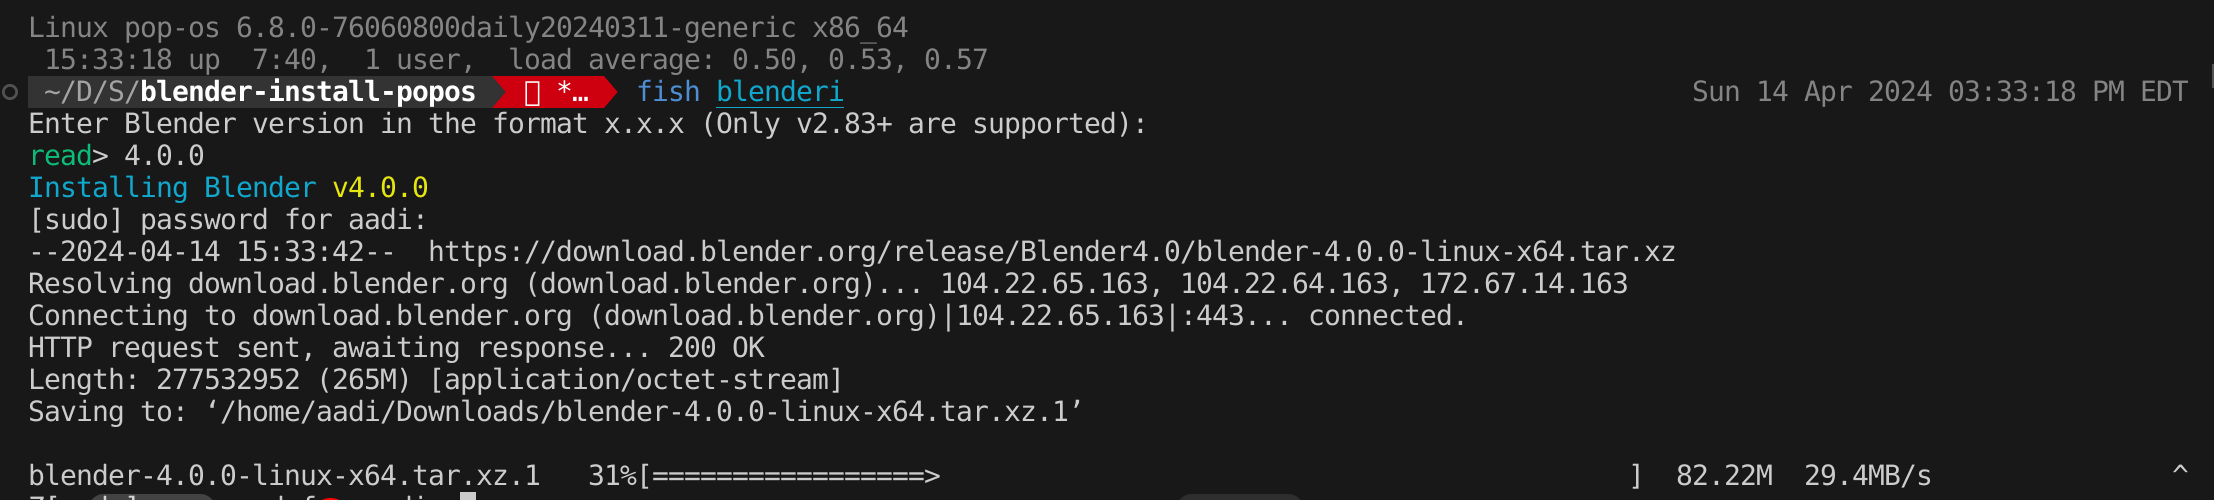
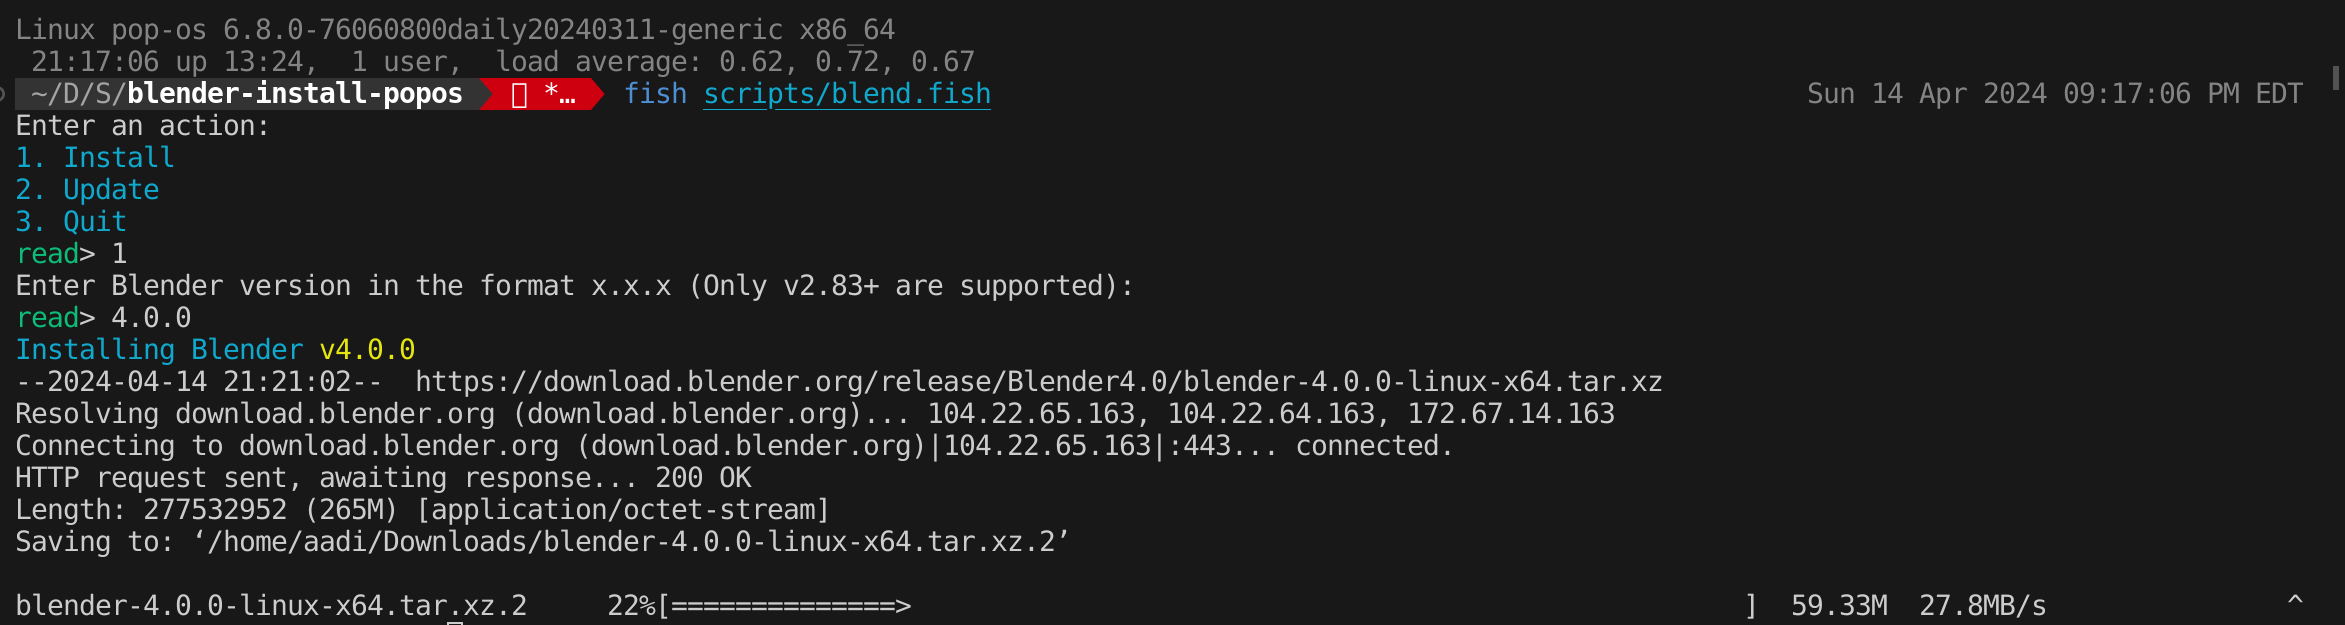
add blend.fish and update readme

diff --git a/README.md b/README.md
@@ -2,11 +2,7 @@
 
 This repo allows installing/updating Blender v2.83+ in PopOS. It uses the fish shell for both of those actions. It was created as the latest versions of Blender take a long time to appear in the official repo. Doesn't work with Blender versions < 2.83.x due to versioning differences.
 
-This repo includes two fish scripts:
-1. blenderi : For installing Blender
-2. blenderu : For updating Blender
-
-## Steps in blenderi
+## Install actions
 1. Download specified version tarball to ~/Downloads
 2. Extract tarball to /opt/Blender
 3. Delete tarball
@@ -14,7 +10,7 @@ This repo includes two fish scripts:
 5. Update icon caches with Blender icons
 6. Restart Gnome shell to make Blender appear in the launcher (Works with X11. If you're using Wayland, you'll need to re-login)
 
-## Steps in blenderu
+## Update actions
 1. Download specified version tarball to ~/Downloads
 2. Extract tarball to /opt/Blender
 3. Delete tarball
@@ -24,17 +20,15 @@ This repo includes two fish scripts:
 ## Dependencies
 1. fish shell 🐬
 
-## Installing Blender v.x.x.x with blenderi
-Open a fish shell inside the repo and execute: 
-```fish scripts/blenderi.fish```
+## Installing Blender
+Open a fish shell inside the repo, execute ```fish scripts/blend.fish```, and enter 1
 
 ![v4.0.0 Install](./snaps/install.png)
 
 Example: Install Blender v4.0.0
 
-## Updating Blender to v.x.x.x with blenderu
-Open a fish shell inside the repo and execute: 
-```fish scripts/blenderu.fish```
+## Updating Blender
+Open a fish shell inside the repo, execute ```fish scripts/blend.fish```, and enter 2
 
 ![v4.1.0 Update](./snaps/update.png)
 
